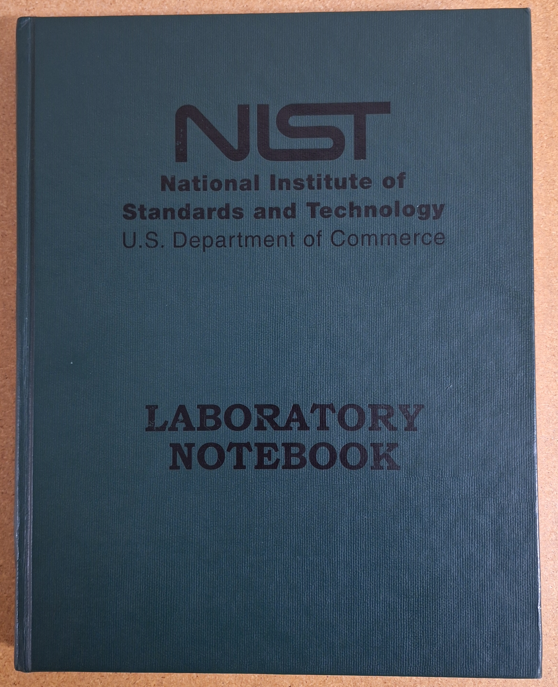
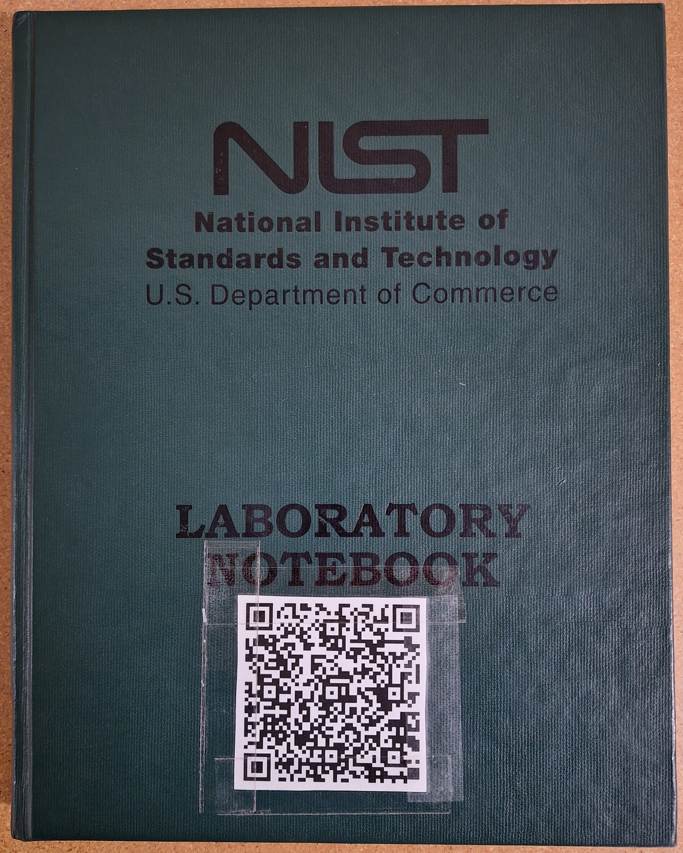
made front cover image recursive to qr code

diff --git a/README.md b/README.md
@@ -5,8 +5,23 @@
   ![](title-page.png)
   
    - [index.html](index.html)
+   - [thing.txt](thing.txt)
    - [http://localhost/lab-notebook-number-three/](http://localhost/lab-notebook-number-three/)
    - [edit-html.html](edit-html.html)
    - [edit-index.html](edit-index.html)
    - [edit-php.html](edit-php.html)
    - [qrcode.html](qrcode.html)
+  
+
+## thing.txt
+
+```
+{
+    "name": "Lab Notebook #3 (2024 reboot)",
+    "location": "NIST Boulder, building 1, room 2111",
+    "description": "Green hard cover bound notebook with NIST logo, used for daily record of Lafe Spietz's work at NIST in flux quantum electronics project in Volt group in the RF technoloogy division of the communications technology laboratory at the National Institute of Standards and Technology in Boulder, Colorado",
+    "contact": "cell phone: (303)817-8283 email: lafe.f.spietz@nist.gov",
+    "message": "if found, please return",
+    "url": "https://github.com/lafefspietz/lab-notebook-number-three/"
+}
+```
